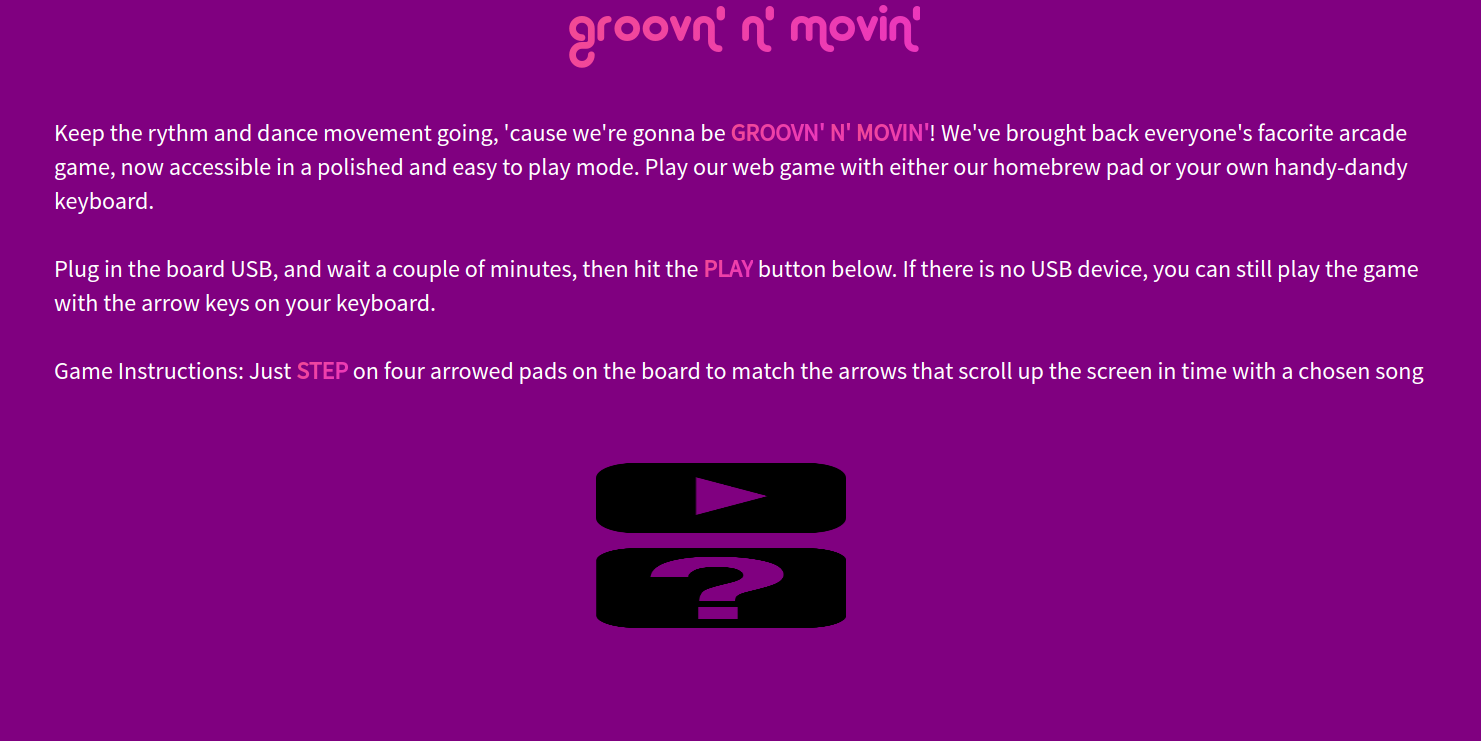
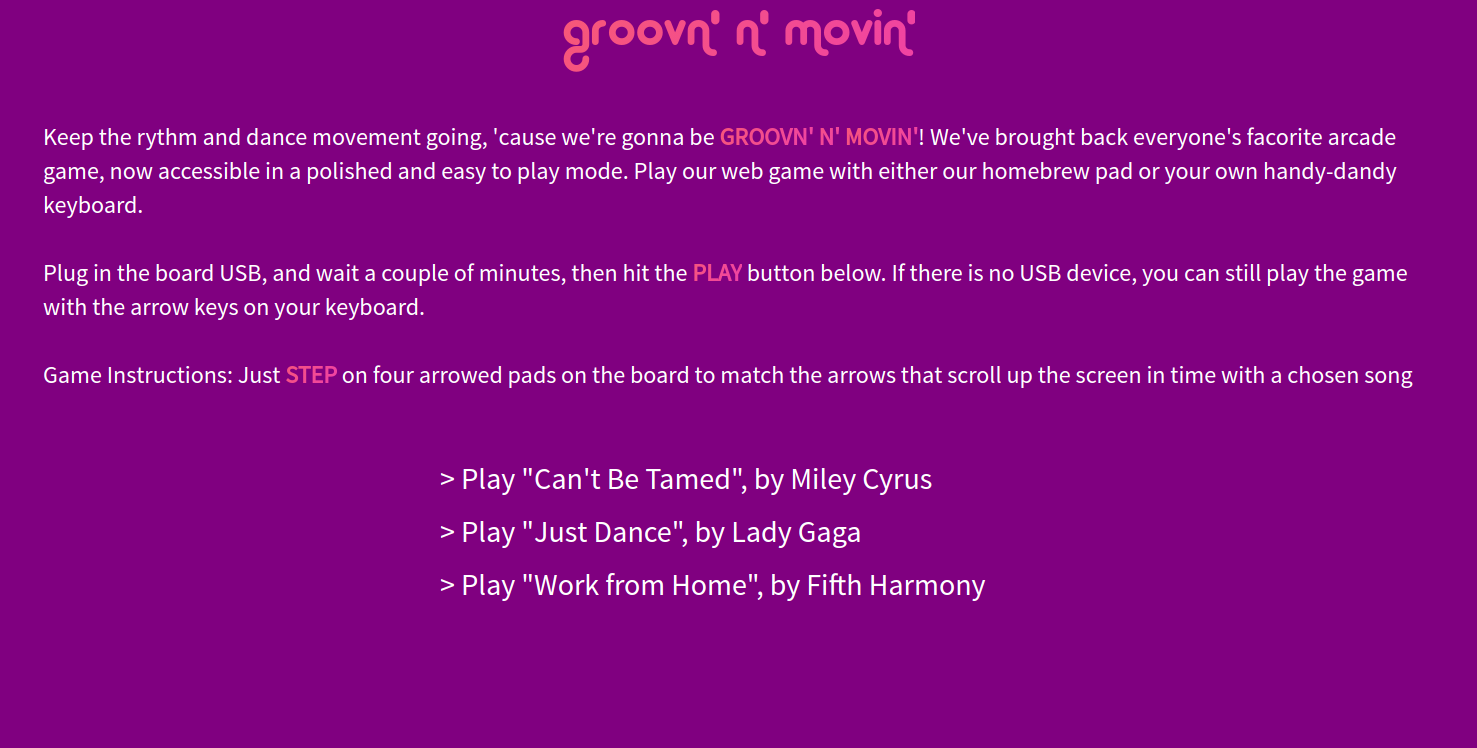
added software architecture section

diff --git a/software.html b/software.html
@@ -62,11 +62,23 @@
 				<li>Serialport: In order to communicate with the arduino that is sending pressure sensor data, as well as receiving information on our end, regarding what step should be taken nect, we use the npm node.js package called Serialport. As long as the usb connecting the arduino to the computer is connected, we can receive and send data from both sides.</li>
 			</ul>
 
+			<h2>Software Architecture</h2>
+			<p>
+				The github code for the game website can be found: <a href="https://github.com/yunhsincynthiachen/PoeDDR">
+					https://github.com/yunhsincynthiachen/PoeDDR
+				</a>
+				<br>
+				<br>
+				In terms of the software architecture, the arduino talks and sends pressure sensor data (depending on what arrows were pressed) to the backend of the website using Serialport, and then the backend sends data to the frontend using socket.io to utilize the pressure info to change the display of score and animation, depending on whether or not the correct step was stepped on. In addition, the front end sends the backend data about what each next step should be using socket.io, and then this data is sent to the arduino using Serialport to indicate which arrow LED needs to be turned on. A diagram of this can be found below.
+				<img width="100%" src="images/softwareArchitecture.png"/>
+
+			</p>
+
 			<h2>Our Final Implementation Interface</h2>
-			<p>The web game begins in the home page with a blurb about the game and instructions for how to play the game. If the user doesn't have the mechanical board, they can use their keyboard arrow keys to play the game.</p>
+			<p>The web game begins in the home page with a blurb about the game and instructions for how to play the game. In addition, they can choose between 3 song choices. If the user doesn't have the mechanical board, they can use their keyboard arrow keys to play the game.</p>
 			<img width="100%" src="images/homePage.png"/>
-			<p>Once the player, hits play, they must hit the space bar, in order to start the game. Once the game starts, the music, which we chose to be "Can't Be Tamed", by Miley Cyrus, and arrows start floating up the screen and the player must step on the corresponding step or keyboard arrow when the arrow floats and matches the top arrow. This process is illustrated in the following gif. In addition, the player can pause and play the game when they hit space bar.</p>
-			<img width="100%" src="images/softwareInterface.gif"/>
+			<p>Once the player, chooses a song, they must hit the space bar, in order to start the game. Once the game starts, the music, which they can choose between "Can't Be Tamed" by Miley Cyrus, "Just Dance" by Lady Gaga and "Work From Home" by Fifth Harmony, and arrows start floating up the screen and the player must step on the corresponding step or keyboard arrow when the arrow floats and matches the top arrow. This process is illustrated in the following gif. In addition, the player can pause and play the game when they hit space bar.</p>
+			<img width="100%" src="images/softwareinterface.gif"/>
 
 			<h2>Future Work</h2>
 			<p>In terms of future software work, we think that the design of the game could be much improved with more stylish divs, more songs, and more exact timing callibration between the animation and the arduino.</p>
